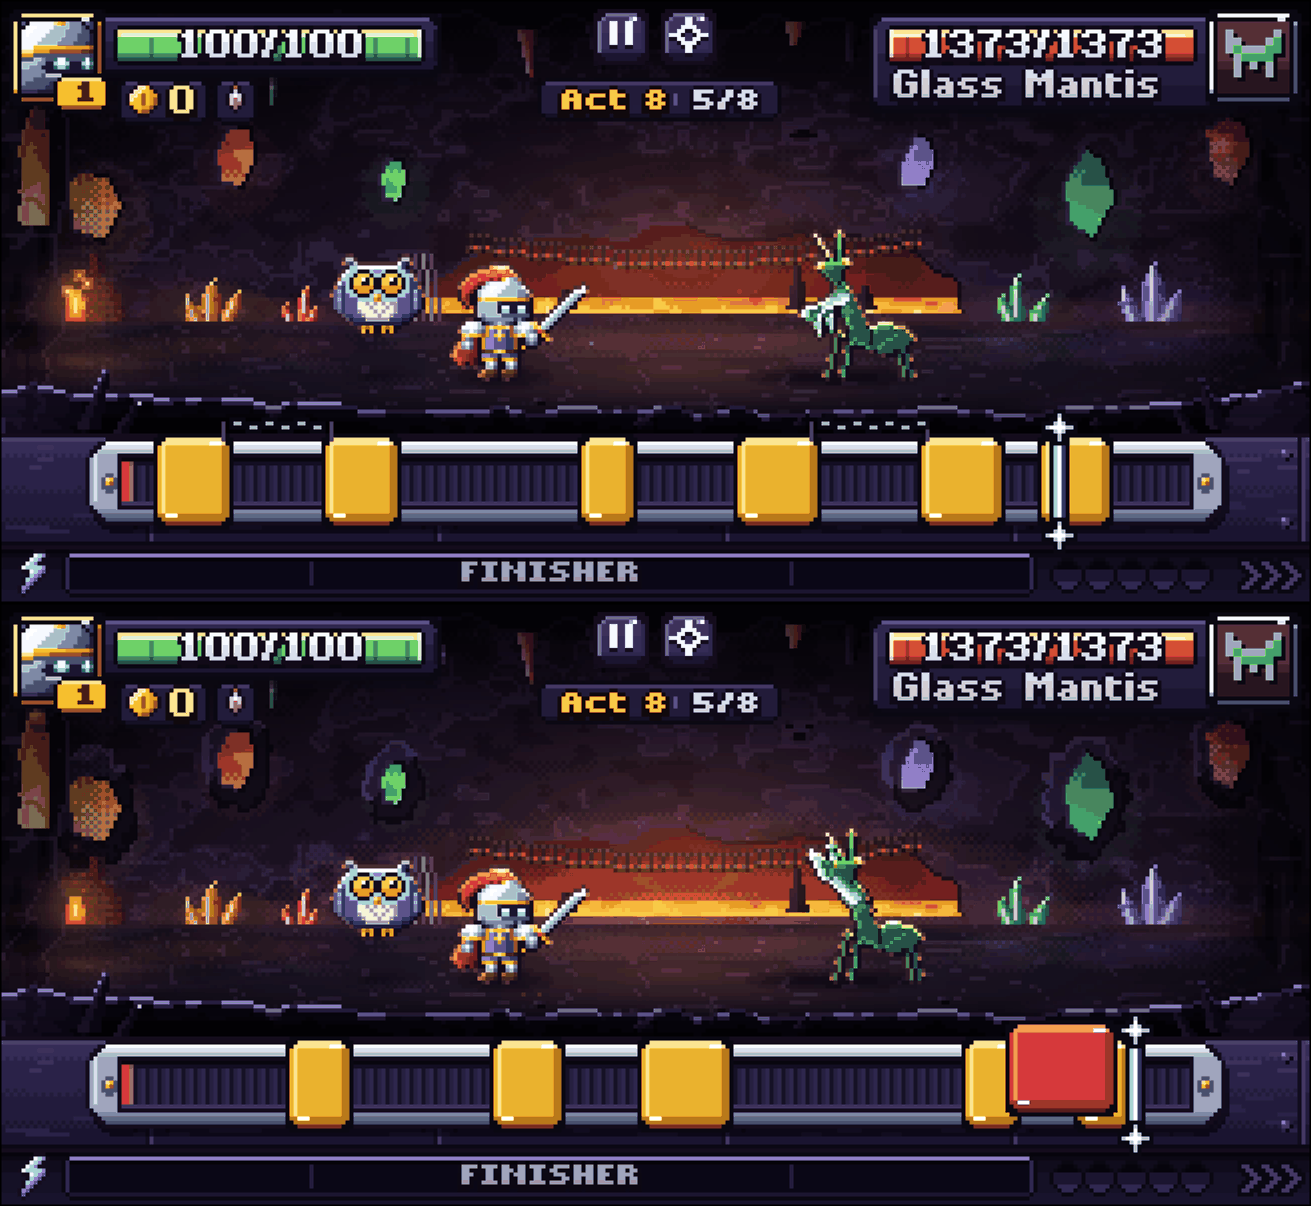
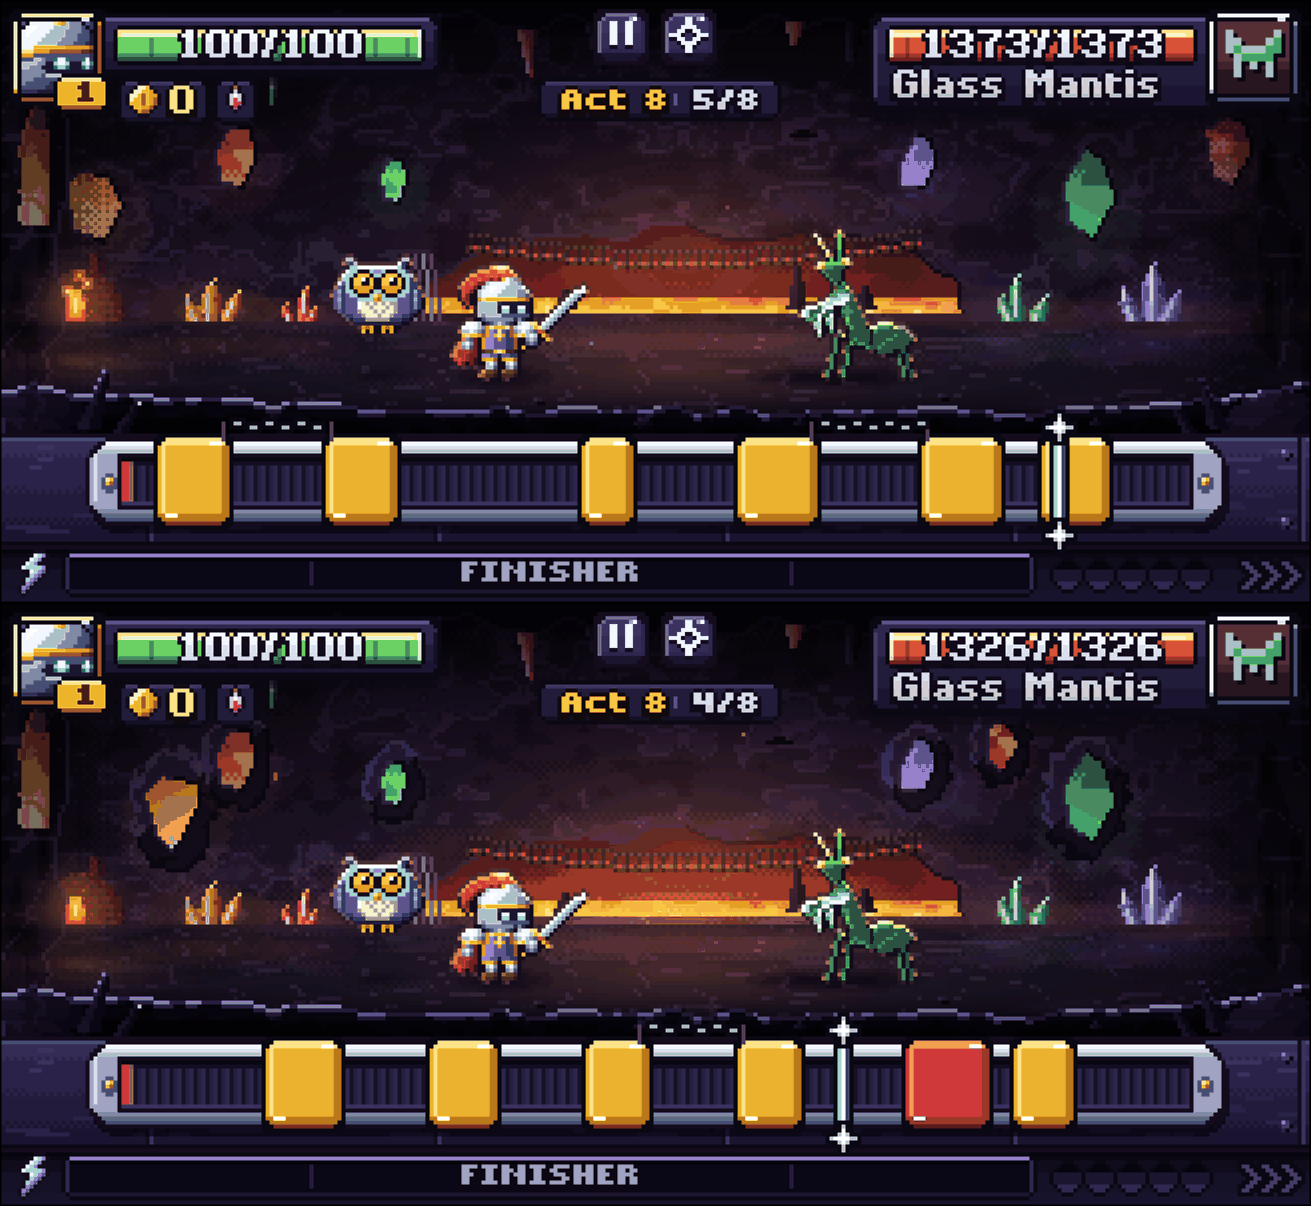
Glass warren: the edge windows move clear of the dithered edge shade (the amber one had become a checkerboard) and no longer overlap
Claude-Session: https://claude.ai/code/session_01XHk7WXwUp52tGKCfxLyk6o

diff --git a/src/engine/backdrop-ash.ts b/src/engine/backdrop-ash.ts
@@ -549,12 +549,12 @@ function glass(w: number, h: number, G: number): [Pix, Pix, Backdrop] {
     }
   // windows of coloured glass grown into the wall, faceted, the lava behind them lighting them up
   const geodes: Array<[number, number, number, number, number]> = [
-    [0.07, G - 44, 8, 13, 0],
+    [0.13, G - 44, 8, 13, 0], // (clear of the dithered edge shade, which turned it into a checkerboard)
     [0.18, G - 56, 6, 10, 3],
     [0.3, G - 50, 5, 8, 1],
     [0.7, G - 54, 6, 9, 2],
     [0.83, G - 46, 8, 13, 1],
-    [0.94, G - 58, 7, 11, 3],
+    [0.765, G - 60, 5, 8, 3],
   ];
   for (const [fx, cy, rx, ry, gi] of geodes) {
     const cx = Math.round(fx * w);

diff --git a/docs/art-audit/README.md b/docs/art-audit/README.md
@@ -62,7 +62,7 @@ placeholder). Contact sheets come from `scripts/art-audit.mjs` (run it by hand a
 3. Relic icons sharing generic glyphs (3): done, the Frostpeaks' 15 painted.
 4. Rowan's fight frames (3): the missing poses are drawn; still off the shared rig (a deliberate look?) and a 2-frame idle.
 5. The dark Ashfell foes (3): done, an ember rim from below.
-6. The glass backdrop (3): partly done (light spill, sockets); the kiln still reads as a blob. The forge re-scored 4.
+6. The glass backdrop (3): done (light spill, sockets, no checkerboard). The forge re-scored 4.
 7. The vault's empty state (3): dim, no focal light (with chests waiting it is a 4).
 8. The spirit stag (3) and the cinder lair (3).
 9. The world map's style (4 in craft): becomes the inked Atlas.
@@ -74,7 +74,7 @@ placeholder). Contact sheets come from `scripts/art-audit.mjs` (run it by hand a
 | Skill icons | 2 | 3 | `after/sheet-icons-skills.png`. The 127 rule nodes and capstones without a painted icon now show the emblem their name is about (15 emblems: smoke, ice, thorns, bomb, flame, shield, arrow, rock, fist, hourglass, bell, sun, clover, dagger, moon; gold corners on capstones; `art-skill-emblems.ts`, unit-tested). Two keep the rune. Still to do: painted icons per node (a hero's tree repeats its theme's emblem). |
 | Relic icons (the Frostpeaks' 15) | 3 | 4 | `after/sheet-icons-relics-items.png`. Each its own picture (a skate, a frost rune, cocoa, a hammer on ice, a plough in snow, an ice heart, a frosted fang, a melting cube, a grip, a held note, a knot, a valve, a tether, a lucky mitten, crampons) instead of a stand-in snowflake or rail. |
 | Dark Ashfell foes (ox, sentinel, forgehand, kite) | 3 | 4 | `after/sheet-foes-ashfell.png`, `after/fight-act8-uplit.png`. Ashfell's light recipe applied: an ember rim along their lower edges (light from below), a faint cool lift on the top edges (`art-ash.ts` emberRim). |
-| Backdrop: glass (partly) | 3 | 3+ | `after/fight-act8-glass-before-after.png` (top before, bottom after). The wall lifted a little, the lake's light spilling out of the opening across it (Ashfell's key from below), the glass windows set in rock sockets so they no longer float. The kiln is still to redo. |
+| Backdrop: glass | 3 | 4 | `after/fight-act8-glass-before-after.png` (top before, bottom after). The wall lifted a little, the lake's light spilling out of the opening across it (Ashfell's key from below), the glass windows set in rock sockets so they no longer float, and moved clear of the dithered edge shade (it had turned the amber one into a checkerboard). |
 | Rowan's fight frames | 3 | 3+ | `after/sheet-heroes-a.png`: the three missing poses drawn on his own pose system (fin: the sword raised high, cape flying; cast: the blade raised forward; down: on one knee over the planted sword), so his finisher, kit moments and defeat no longer borrow other frames. His bigger helmeted head stays (the starter's look). |
 | Heroes' idles (the 14 rig heroes) | 4 | 4+ | A four-step breath instead of two: `idle2`/`idle3`, the head following the body a beat late (secondary motion, bible section 7). |
 | Title screen, logo, key art | 3 | 4 | `before/title-phone.png`; `after/title-phone.png`, `after/title-desktop.png`, `after/title-continue.png`. The Atlas spread open: an inked parchment map, colour come back round the hero, fog over the erased east, a quill drawing the route; the logo built from `GAME_NAME` (Scale3x lettering, gold face, rim light, extrusion, ink outline). |
